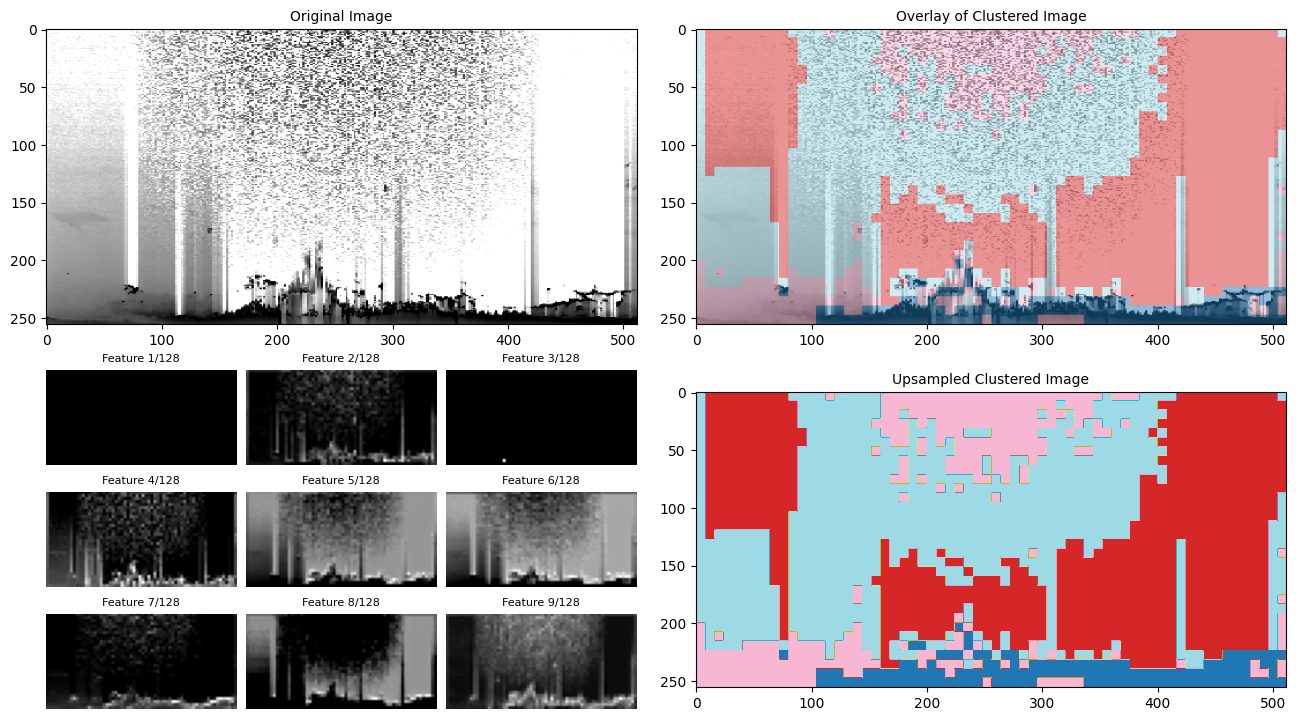
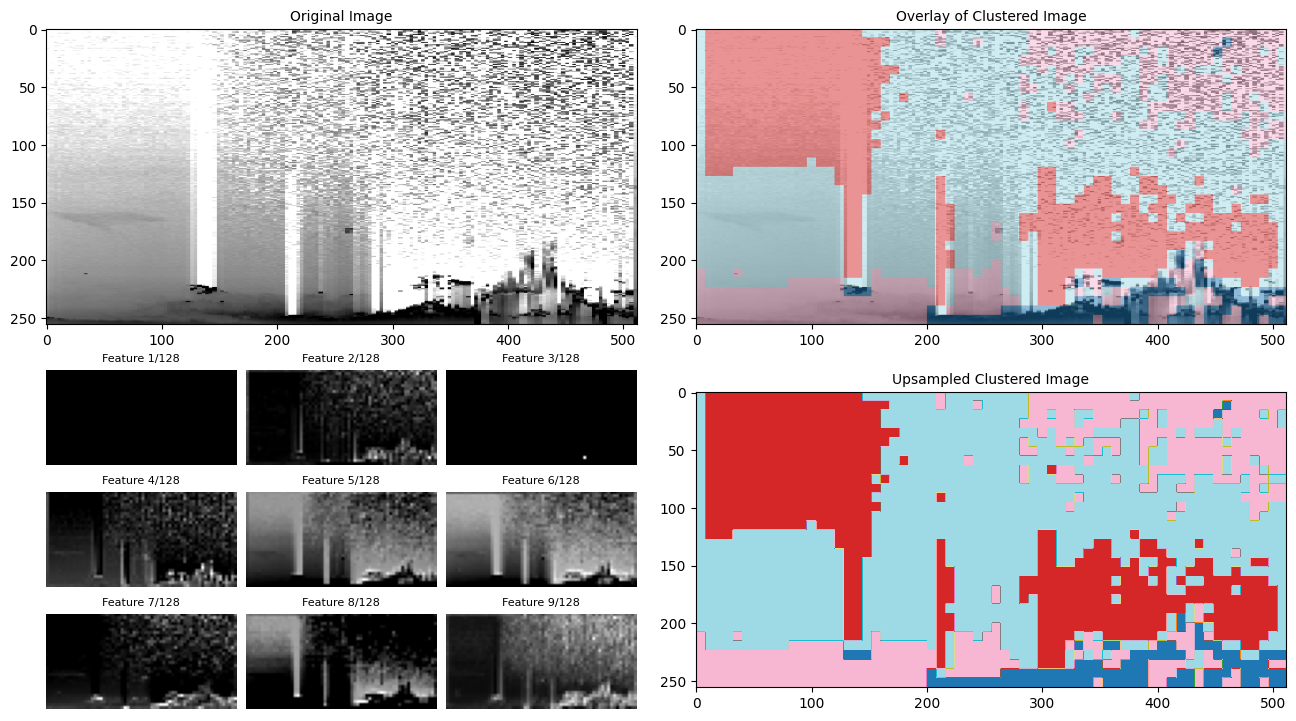
simulate partial measurements

diff --git a/dec/cluster_file.py b/dec/cluster_file.py
@@ -18,8 +18,13 @@ mm = '07'
 dd = '16'
 station = '0-100-20000-0000001-A'
 station = '0-20000-0-07014-A'
-savefig = True
+
+# simulate partial measurements
+t_max = 12
+fill = 'cropping' # 'cropping' 'padding'
+
 method = 'kmeans' # 'kmeans', 'hdbscan'
+savefig = True
 
 # Paths to saved models
 encoder_path = 'dec/encoder.keras'
@@ -35,10 +40,13 @@ var = 'attenuated_backscatter_0'
 vmin, vmax = -2, 2  # Use the same limits as for plotting
 target_size = (256, 512)
 
-
-
 # Load and preprocess the data
 da = xr.open_dataset(f'{data_path}/{yyyy}/{mm}/{dd}/AP_{station}-{yyyy}-{mm}-{dd}.nc')[var].load()
+if t_max:
+    if fill == 'padding':
+        da = da.where(da.time.dt.hour <= t_max, np.nan)
+    elif fill == 'cropping':
+        da = da.where(da.time.dt.hour <= t_max, drop=True)
 
 # Log transform
 data = np.log(da)
